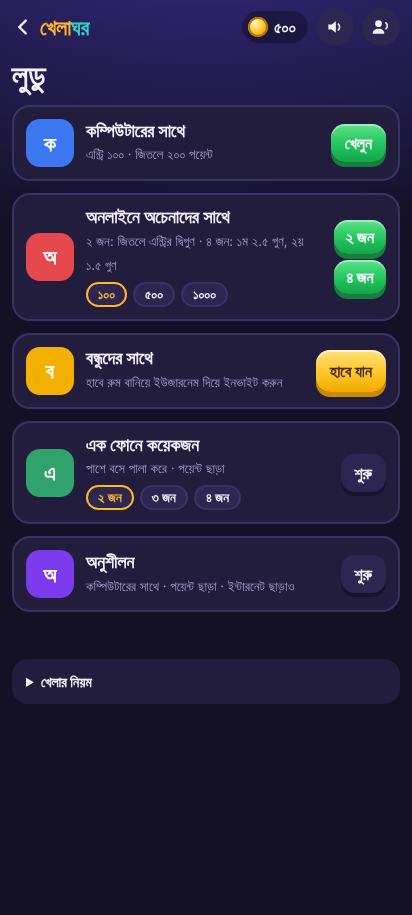
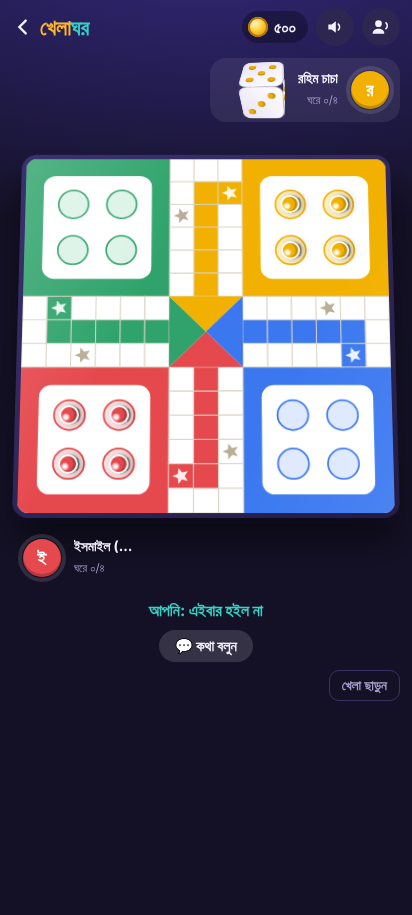
Hub: playable games show real gameplay screenshots with play button; new Ludo board screenshot
Claude-Session: https://claude.ai/code/session_01Sj7bcfDAG9UkavWmhC1U6s

diff --git a/index.html b/index.html
@@ -90,6 +90,12 @@ button:focus-visible,a:focus-visible{outline:3px solid var(--cyan);outline-offse
 .hero{transform:perspective(900px) rotateX(var(--hx,0deg)) rotateY(var(--hy,0deg));transition:transform .25s ease}
 @keyframes mini3d{0%,100%{transform:perspective(500px) rotate(8deg) rotateY(-14deg) translateY(0)}50%{transform:perspective(500px) rotate(4deg) rotateY(16deg) translateY(-6px)}}
 @media (prefers-reduced-motion:reduce){.tile,.hero,.mini{transform:none!important;animation:none!important}.tile.pre{opacity:1}}
+.tile.shot{background:linear-gradient(180deg,rgba(10,8,30,.05) 0%,rgba(10,8,30,.25) 45%,rgba(10,8,30,.92) 100%),var(--shot) center 32%/cover,linear-gradient(135deg,var(--a),var(--b))!important;min-height:230px;justify-content:flex-end;padding-top:120px;box-shadow:0 6px 0 rgba(0,0,0,.25),0 0 0 2px rgba(255,255,255,.18) inset}
+.tile.shot .logo{display:none}
+.tile.shot .ds{display:-webkit-box;-webkit-line-clamp:2;-webkit-box-orient:vertical;overflow:hidden}
+.tile.shot b{text-shadow:0 2px 6px rgba(0,0,0,.6)}
+.tile.shot::before{content:"▶";position:absolute;left:50%;top:30%;transform:translate(-50%,-50%);width:54px;height:54px;border-radius:50%;display:grid;place-items:center;background:rgba(255,255,255,.9);color:#1d1640;font-size:1.3rem;box-shadow:0 6px 18px rgba(0,0,0,.4);transition:transform .2s}
+.tile.shot:hover::before{transform:translate(-50%,-50%) scale(1.1)}
 .tile::after{content:"";position:absolute;right:-30px;top:-30px;width:110px;height:110px;border-radius:50%;background:rgba(255,255,255,.12);pointer-events:none}
 .tile .logo{width:64px;height:64px;border-radius:18px;background:rgba(0,0,0,.16);display:grid;place-items:center;box-shadow:inset 0 2px 0 rgba(255,255,255,.2);flex:none}
 .tile .logo svg{width:46px;height:46px;overflow:visible}
@@ -642,6 +648,8 @@ function drawGrid(){
     const [a,b]=PAL[i%PAL.length];
     const el=document.createElement('button');
     el.className='tile '+(st==='live'?'live':st==='maint'?'maint':'soon');el.style.setProperty('--a',a);el.style.setProperty('--b',b);
+    const SHOT={'লুডু':'ludo','মশা মারো':'mosha','ঢাকা জ্যাম রানার':'jam','বাজার দর চ্যালেঞ্জ':'bazar'}[name];
+    if(SHOT&&url){el.classList.add('shot');el.style.setProperty('--shot',`url(/icons/shots/${SHOT}.png)`)}
     el.onclick=()=>window.KH.tapGame?window.KH.tapGame(name,st==='live'?url:null,st):(st==='live'?openModes(name,url):toast(SOON[i%SOON.length]));
     const inf=(window.GAME_INFO||{})[name]||['',''];
     const lbl=st==='live'?'খেলুন':st==='maint'?'মেরামত চলছে':'শিগগিরই';

diff --git a/sw.js b/sw.js
@@ -1,6 +1,6 @@
 // খেলাঘর service worker: পেজগুলো ক্যাশে রাখে, যাতে দুর্বল নেটেও দ্রুত খোলে।
 // নতুন ভার্সন পাবলিশ করলে VERSION বাড়ান।
-const VERSION = 'khelaghor-v34';
+const VERSION = 'khelaghor-v35';
 const CORE = ['/', '/app/', '/games/ludo/', '/games/mosha/', '/games/jam/', '/games/bazar/', '/offline.html', '/js/game-info.js', '/js/fun.js', '/js/voice.js', '/js/videos.js', '/js/viral.js', '/js/ludo-engine.js', '/js/vendor/three.module.min.js', '/js/online.js', '/js/firebase-config.js', '/manifest.webmanifest', '/icons/icon-192.png', '/icons/icon-512.png'];
 
 self.addEventListener('install', e => {
